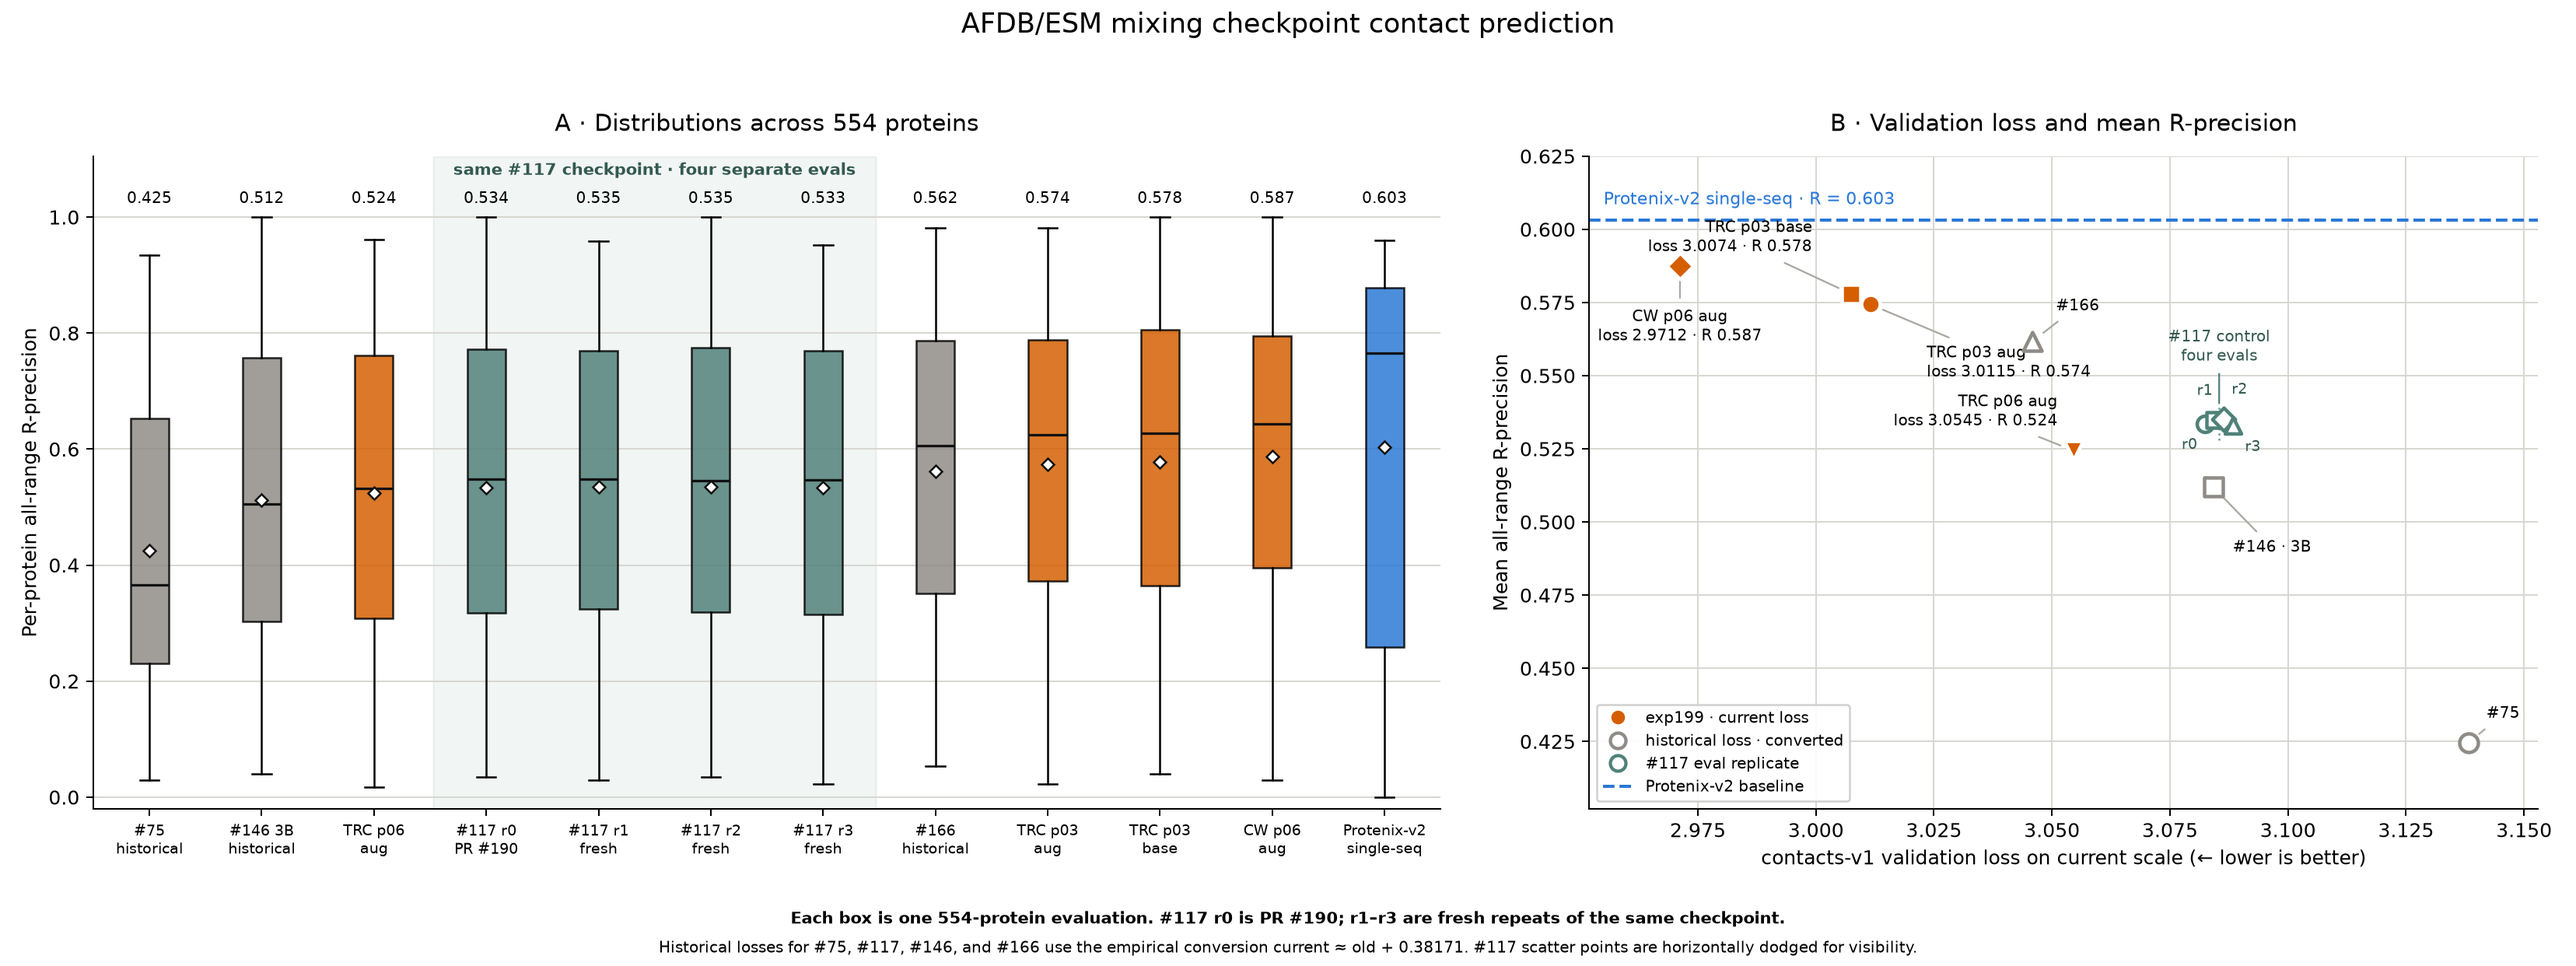
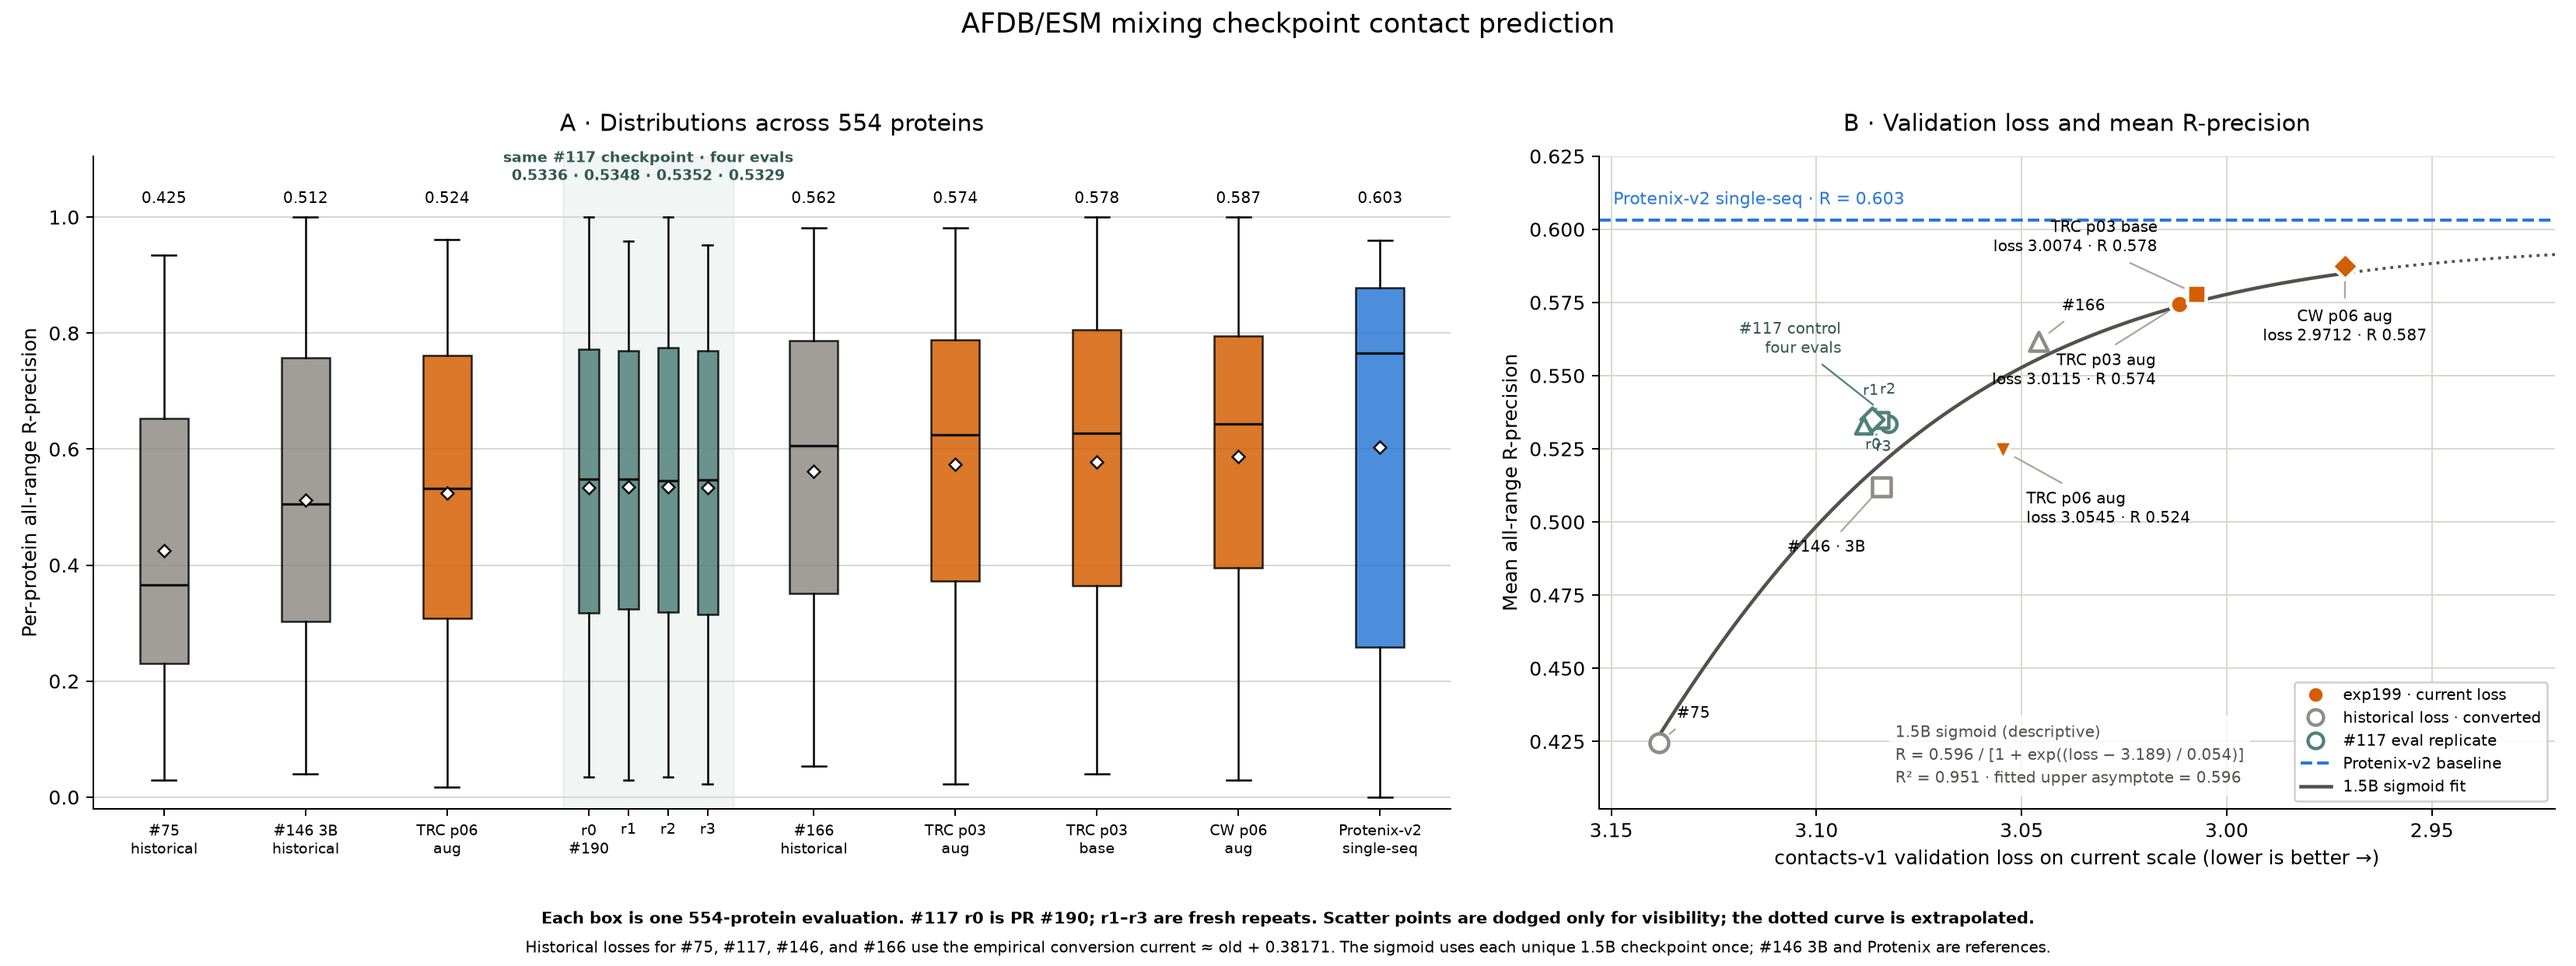
Refine exp199 comparison plot

diff --git a/experiments/exp199_optimize_contacts_v1_afdb_esm/evals/contact_prediction/plot_contact_eval.py b/experiments/exp199_optimize_contacts_v1_afdb_esm/evals/contact_prediction/plot_contact_eval.py
@@ -12,6 +12,8 @@ import matplotlib.pyplot as plt
 import numpy as np
 import pandas as pd
 from matplotlib.lines import Line2D
+from scipy.optimize import curve_fit
+from scipy.special import expit
 
 plt.switch_backend("Agg")
 
@@ -45,10 +47,10 @@ MODELS = {
 BOX_LABELS = {
     "exp75": "#75\nhistorical",
     "exp146": "#146 3B\nhistorical",
-    "control-r0": "#117 r0\nPR #190",
-    "control-r1": "#117 r1\nfresh",
-    "control-r2": "#117 r2\nfresh",
-    "control-r3": "#117 r3\nfresh",
+    "control-r0": "r0\n#190",
+    "control-r1": "r1",
+    "control-r2": "r2",
+    "control-r3": "r3",
     "exp166": "#166\nhistorical",
     "trc-p06-aug": "TRC p06\naug",
     "trc-p03-aug": "TRC p03\naug",
@@ -72,10 +74,10 @@ MARKERS = {
 }
 ANNOTATIONS = {
     "exp75": ((9, 15), "left"),
-    "exp146": ((10, -31), "left"),
+    "exp146": ((-8, -31), "right"),
     "exp166": ((12, 18), "left"),
-    "trc-p06-aug": ((-8, 20), "right"),
-    "trc-p03-aug": ((29, -30), "left"),
+    "trc-p06-aug": ((12, -30), "left"),
+    "trc-p03-aug": ((-12, -34), "right"),
     "trc-p03-base": ((-20, 29), "right"),
     "cw-p06-aug": ((0, -31), "center"),
 }
@@ -168,14 +170,34 @@ def ordered_boxes(
     return sorted((row for _, row in table.iterrows()), key=order)
 
 
+def box_positions(rows: list[pd.Series]) -> np.ndarray:
+    positions = []
+    cursor = 1.0
+    in_controls = False
+    for row in rows:
+        if row.category == "control":
+            if in_controls:
+                cursor += 0.28
+            positions.append(cursor)
+            in_controls = True
+            continue
+        if in_controls:
+            cursor += 0.75
+            in_controls = False
+        positions.append(cursor)
+        cursor += 1.0
+    return np.asarray(positions)
+
+
 def draw_boxplot(
     axis: plt.Axes, rows: list[pd.Series], values: dict[str, np.ndarray]
 ) -> None:
-    positions = np.arange(1, len(rows) + 1)
+    positions = box_positions(rows)
+    widths = [0.14 if row.category == "control" else 0.34 for row in rows]
     boxes = axis.boxplot(
         [values[row.key] for row in rows],
         positions=positions,
-        widths=0.34,
+        widths=widths,
         patch_artist=True,
         showmeans=True,
         meanprops={
@@ -197,23 +219,32 @@ def draw_boxplot(
         if row.category == "control"
     ]
     axis.axvspan(
-        min(control_positions) - 0.47,
-        max(control_positions) + 0.47,
+        min(control_positions) - 0.18,
+        max(control_positions) + 0.18,
         color=COLORS["control"],
         alpha=0.08,
         zorder=0,
     )
     axis.text(
         float(np.mean(control_positions)),
-        1.066,
-        "same #117 checkpoint · four separate evals",
+        1.055,
+        (
+            "same #117 checkpoint · four evals\n"
+            + " · ".join(
+                f"{values[row.key].mean():.4f}"
+                for row in rows
+                if row.category == "control"
+            )
+        ),
         ha="center",
         va="bottom",
-        fontsize=8.5,
+        fontsize=7.7,
         color="#335950",
         weight="bold",
     )
     for position, row in zip(positions, rows, strict=True):
+        if row.category == "control":
+            continue
         axis.text(
             position,
             1.018,
@@ -229,6 +260,53 @@ def draw_boxplot(
     axis.grid(axis="y", color="#d8d7d2", linewidth=0.8)
     axis.set_axisbelow(True)
     axis.spines[["top", "right"]].set_visible(False)
+
+
+def sigmoid(
+    loss: np.ndarray, upper: float, midpoint: float, width: float
+) -> np.ndarray:
+    return upper * expit((midpoint - loss) / width)
+
+
+def fit_sigmoid(
+    table: pd.DataFrame, values: dict[str, np.ndarray]
+) -> dict[str, object]:
+    fit_rows = table[(~table.category.isin(["baseline"])) & (table.key != "exp146")]
+    controls = fit_rows[fit_rows.category == "control"]
+    xs = [float(controls.iloc[0].loss_current_scale)]
+    ys = [float(np.mean([values[key].mean() for key in controls.key]))]
+    input_keys = ["control-mean"]
+    for _, row in fit_rows[fit_rows.category != "control"].iterrows():
+        xs.append(float(row.loss_current_scale))
+        ys.append(float(values[row.key].mean()))
+        input_keys.append(row.key)
+    fit_x = np.asarray(xs)
+    fit_y = np.asarray(ys)
+    parameters, _ = curve_fit(
+        sigmoid,
+        fit_x,
+        fit_y,
+        p0=(0.60, 3.18, 0.05),
+        bounds=([0.5, 2.5, 0.001], [1.0, 3.5, 2.0]),
+        maxfev=100_000,
+    )
+    upper, midpoint, width = (float(value) for value in parameters)
+    predicted = sigmoid(fit_x, upper, midpoint, width)
+    residual_sum = float(np.square(fit_y - predicted).sum())
+    total_sum = float(np.square(fit_y - fit_y.mean()).sum())
+    return {
+        "equation": "R = upper / (1 + exp((loss - midpoint) / width))",
+        "upper": upper,
+        "midpoint": midpoint,
+        "width": width,
+        "r_squared": 1.0 - residual_sum / total_sum,
+        "rmse": float(np.sqrt(residual_sum / fit_y.size)),
+        "input_keys": input_keys,
+        "minimum_observed_loss": float(fit_x.min()),
+        "maximum_observed_loss": float(fit_x.max()),
+        "control_replicates_enter_fit_as_mean": True,
+        "excluded": ["exp146", "protenix"],
+    }
 
 
 def annotate(
@@ -261,8 +339,35 @@ def annotate(
 
 def draw_scatter(
     axis: plt.Axes, table: pd.DataFrame, values: dict[str, np.ndarray]
-) -> None:
+) -> dict[str, object]:
+    fit = fit_sigmoid(table, values)
+    upper = float(fit["upper"])
+    midpoint = float(fit["midpoint"])
+    width = float(fit["width"])
+    observed_grid = np.linspace(
+        float(fit["minimum_observed_loss"]),
+        float(fit["maximum_observed_loss"]),
+        240,
+    )
+    extrapolated_grid = np.linspace(2.92, float(fit["minimum_observed_loss"]), 100)
+    axis.plot(
+        observed_grid,
+        sigmoid(observed_grid, upper, midpoint, width),
+        color="#52514e",
+        linewidth=1.8,
+        zorder=2,
+    )
+    axis.plot(
+        extrapolated_grid,
+        sigmoid(extrapolated_grid, upper, midpoint, width),
+        color="#52514e",
+        linewidth=1.5,
+        linestyle=":",
+        zorder=2,
+    )
     baseline_r = float(values["protenix"].mean())
+    fit["protenix_r"] = baseline_r
+    fit["has_protenix_crossing"] = upper >= baseline_r
     axis.axhline(
         baseline_r,
         color=COLORS["baseline"],
@@ -329,9 +434,9 @@ def draw_scatter(
     axis.annotate(
         "#117 control\nfour evals",
         (control_x, max(control_ys) + 0.004),
-        xytext=(0, 24),
+        xytext=(-18, 28),
         textcoords="offset points",
-        ha="center",
+        ha="right",
         fontsize=8.2,
         color="#335950",
         arrowprops={
@@ -358,9 +463,24 @@ def draw_scatter(
         )
         annotate(axis, row, x, y)
 
-    axis.set_xlim(2.952, 3.153)
+    axis.text(
+        0.31,
+        0.04,
+        (
+            "1.5B sigmoid (descriptive)\n"
+            f"R = {upper:.3f} / [1 + exp((loss − {midpoint:.3f}) / {width:.3f})]\n"
+            f"R² = {float(fit['r_squared']):.3f} · fitted upper asymptote = {upper:.3f}"
+        ),
+        transform=axis.transAxes,
+        ha="left",
+        fontsize=8.1,
+        linespacing=1.45,
+        color="#52514e",
+        bbox={"facecolor": "white", "edgecolor": "none", "alpha": 0.82, "pad": 3},
+    )
+    axis.set_xlim(3.153, 2.92)
     axis.set_ylim(0.402, 0.625)
-    axis.set_xlabel("contacts-v1 validation loss on current scale (← lower is better)")
+    axis.set_xlabel("contacts-v1 validation loss on current scale (lower is better →)")
     axis.set_ylabel("Mean all-range R-precision")
     axis.set_title("B · Validation loss and mean R-precision", pad=13)
     axis.grid(color="#d8d7d2", linewidth=0.8)
@@ -408,12 +528,20 @@ def draw_scatter(
                 linewidth=1.6,
                 label="Protenix-v2 baseline",
             ),
+            Line2D(
+                [0],
+                [0],
+                color="#52514e",
+                linewidth=1.8,
+                label="1.5B sigmoid fit",
+            ),
         ],
-        loc="lower left",
+        loc="lower right",
         fontsize=7.8,
         frameon=True,
         framealpha=0.92,
     )
+    return fit
 
 
 def run(*, output: Path, scratch: Path) -> None:
@@ -431,7 +559,7 @@ def run(*, output: Path, scratch: Path) -> None:
         gridspec_kw={"width_ratios": [1.42, 1.0]},
     )
     draw_boxplot(box_axis, rows, values)
-    draw_scatter(scatter_axis, table, values)
+    fit = draw_scatter(scatter_axis, table, values)
     figure.suptitle(
         "AFDB/ESM mixing checkpoint contact prediction", fontsize=14, y=0.988
     )
@@ -440,7 +568,8 @@ def run(*, output: Path, scratch: Path) -> None:
         0.044,
         (
             "Each box is one 554-protein evaluation. #117 r0 is PR #190; "
-            "r1–r3 are fresh repeats of the same checkpoint."
+            "r1–r3 are fresh repeats. Scatter points are dodged only for visibility; "
+            "the dotted curve is extrapolated."
         ),
         ha="center",
         fontsize=8.5,
@@ -451,8 +580,8 @@ def run(*, output: Path, scratch: Path) -> None:
         0.014,
         (
             "Historical losses for #75, #117, #146, and #166 use the empirical "
-            "conversion current ≈ old + 0.38171. #117 scatter points are "
-            "horizontally dodged for visibility."
+            "conversion current ≈ old + 0.38171. The sigmoid uses each unique "
+            "1.5B checkpoint once; #146 3B and Protenix are references."
         ),
         ha="center",
         fontsize=8,
@@ -468,6 +597,7 @@ def run(*, output: Path, scratch: Path) -> None:
         "metric": "all-range R-precision",
         "box_order": [row.key for row in rows],
         "loss_conversion": LOSS_CONVERSION,
+        "sigmoid_fit": fit,
         "control_replicates": [
             {
                 "key": row.key,

diff --git a/experiments/exp199_optimize_contacts_v1_afdb_esm/evals/contact_prediction/PLAN.md b/experiments/exp199_optimize_contacts_v1_afdb_esm/evals/contact_prediction/PLAN.md
@@ -67,13 +67,20 @@ and combines them with the committed #75, #146, #166, and Protenix-v2 rows.
 The boxplot shows PR #190 plus all three fresh #117 evaluations as four
 separate distributions. The scatter shows four separately marked control
 points at one shared loss. Their x positions are lightly dodged and documented
-as such. Exp199 losses were computed by the current code. Historical #75,
-#117, #146, and #166 losses are placed on the current scale with
-`current ≈ old + 0.38171` from the
+as such, and lower losses run to the right. Exp199 losses were computed by the
+current code. Historical #75, #117, #146, and #166 losses are placed on the
+current scale with `current ≈ old + 0.38171` from the
 [same-checkpoint conversion](https://gist.github.com/eric-czech/9c40252457790a513eeb62a6a965c049).
 Issue #173 and the linked Discord discussion record why the scales changed.
+
+The descriptive three-parameter sigmoid fixes its lower asymptote at zero and
+uses every unique 1.5B checkpoint once. The four #117 replicates enter through
+their mean. It excludes the 3B #146 reference and Protenix-v2 baseline. Its
+fitted upper asymptote is `0.5955290842354987` with R²
+`0.9511668779667807`, below the Protenix-v2
+R-precision `0.6031578401726864`, so the model has no finite baseline crossing.
 The plot metadata and comparison CSV retain the raw losses, converted losses,
-row hashes, source paths, and unrounded R-all values.
+row hashes, source paths, unrounded R-all values, and fit parameters.
 
 ## Placement and storage
 

diff --git a/experiments/exp199_optimize_contacts_v1_afdb_esm/evals/contact_prediction/README.md b/experiments/exp199_optimize_contacts_v1_afdb_esm/evals/contact_prediction/README.md
@@ -102,6 +102,17 @@ single-sequence references. Their old losses use the same conversion. The four
 scatter dodges those points horizontally for visibility while keeping their
 shared converted loss explicit. The loss conversion affects only the x-axis;
 all plotted R-precision values come from the original per-protein evaluations.
+Lower loss runs to the right.
+
+The scatter includes a descriptive three-parameter sigmoid fit with its lower
+asymptote fixed at zero. It uses the unique 1.5B checkpoints. The four #117
+evaluations enter that fit once through their mean. The 3B #146 point and
+Protenix-v2 are references rather than fit inputs. The fitted equation is
+`R = 0.595529 / (1 + exp((loss - 3.188702) / 0.054182))` with R² `0.951167`.
+Its upper asymptote `0.595529` remains below the Protenix-v2 baseline
+`0.603158`, so the fit has no finite baseline crossing. The dotted portion is
+an extrapolation below the lowest observed loss. This describes a small,
+mixed-history sample whose historical x values use an approximate conversion.
 
 CoreWeave p06-aug is the strongest exp199 checkpoint at R-all `0.587348`,
 `0.015809` below Protenix-v2. TRC p03-base and p03-aug reach `0.577965` and

diff --git a/experiments/exp199_optimize_contacts_v1_afdb_esm/README.md b/experiments/exp199_optimize_contacts_v1_afdb_esm/README.md
@@ -98,7 +98,9 @@ p06-aug checkpoints reached `0.5743326909766765`, `0.5244069975064393`,
 [boxplot and loss scatter](plots/final_checkpoint_rprecision.png) shows all
 four control evaluations separately. Historical losses are converted to the
 current scale with the empirical offset documented in the detailed eval
-README. The range metrics, public artifacts, run order, and reusable layout are
+README. A bounded sigmoid fit across the unique 1.5B checkpoints has an upper
+asymptote of `0.595529`, below the Protenix-v2 baseline `0.603158`. The range
+metrics, public artifacts, run order, and reusable layout are
 in [`evals/contact_prediction/README.md`](evals/contact_prediction/README.md) and
 [`evals/contact_prediction/PLAN.md`](evals/contact_prediction/PLAN.md).
 
